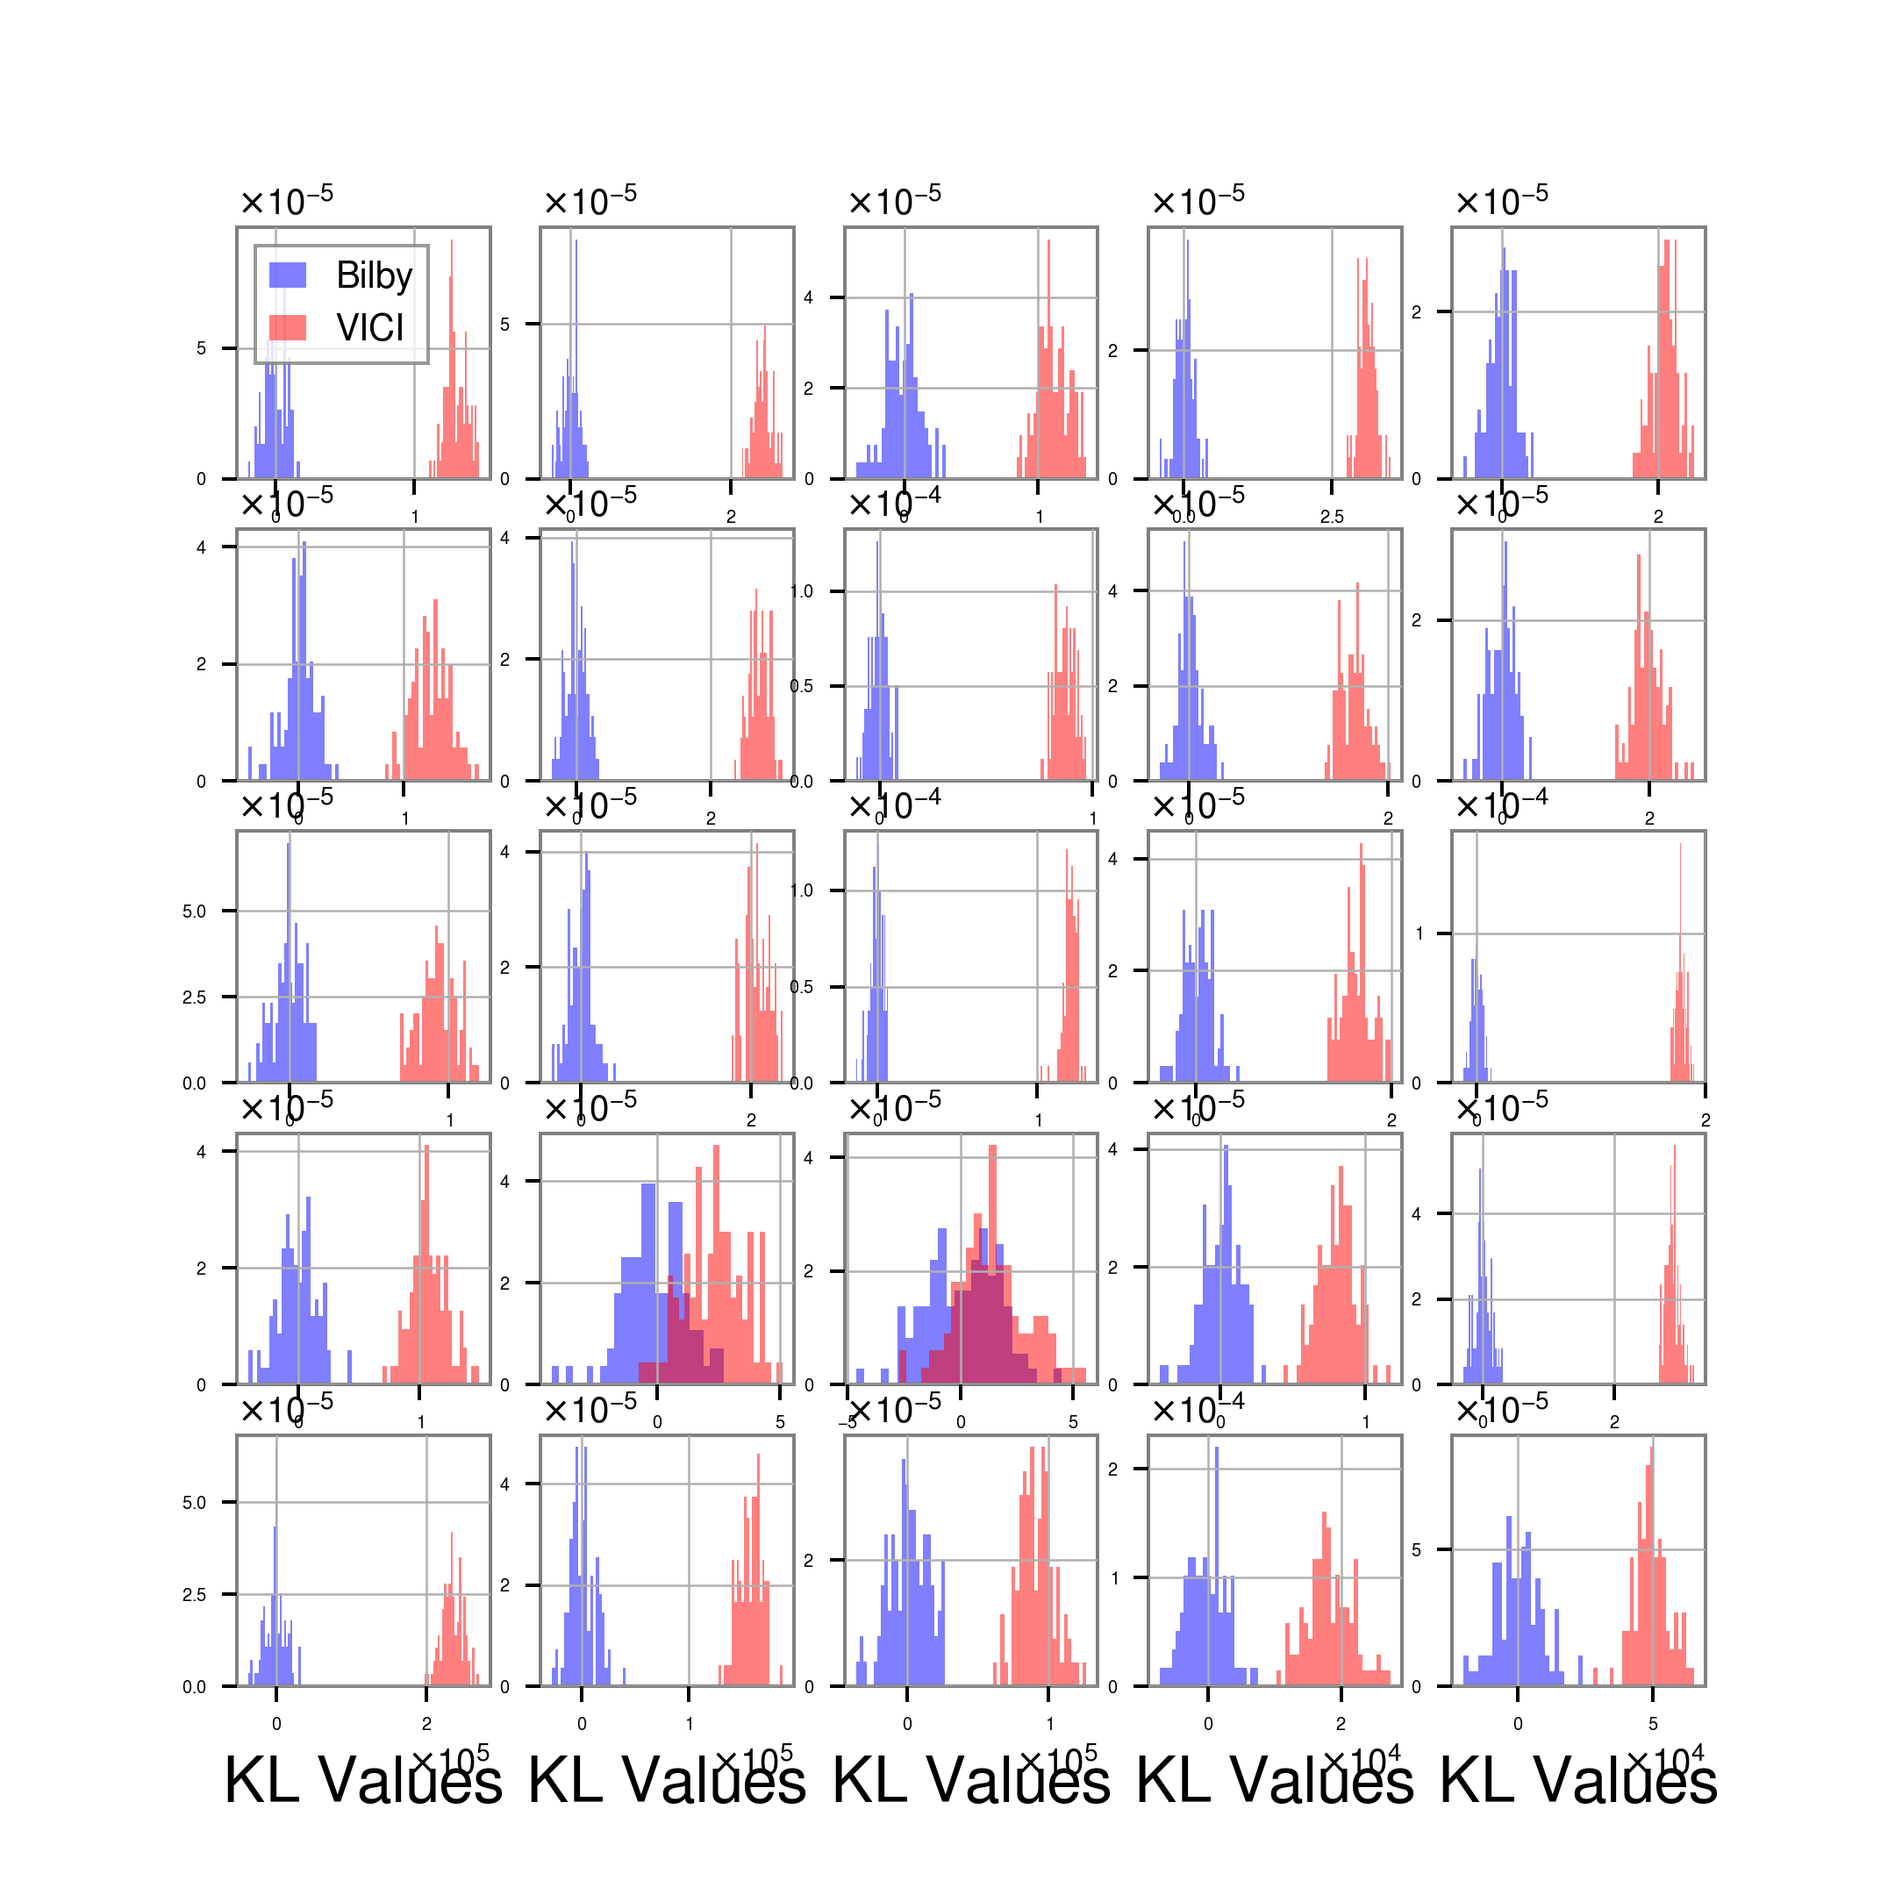
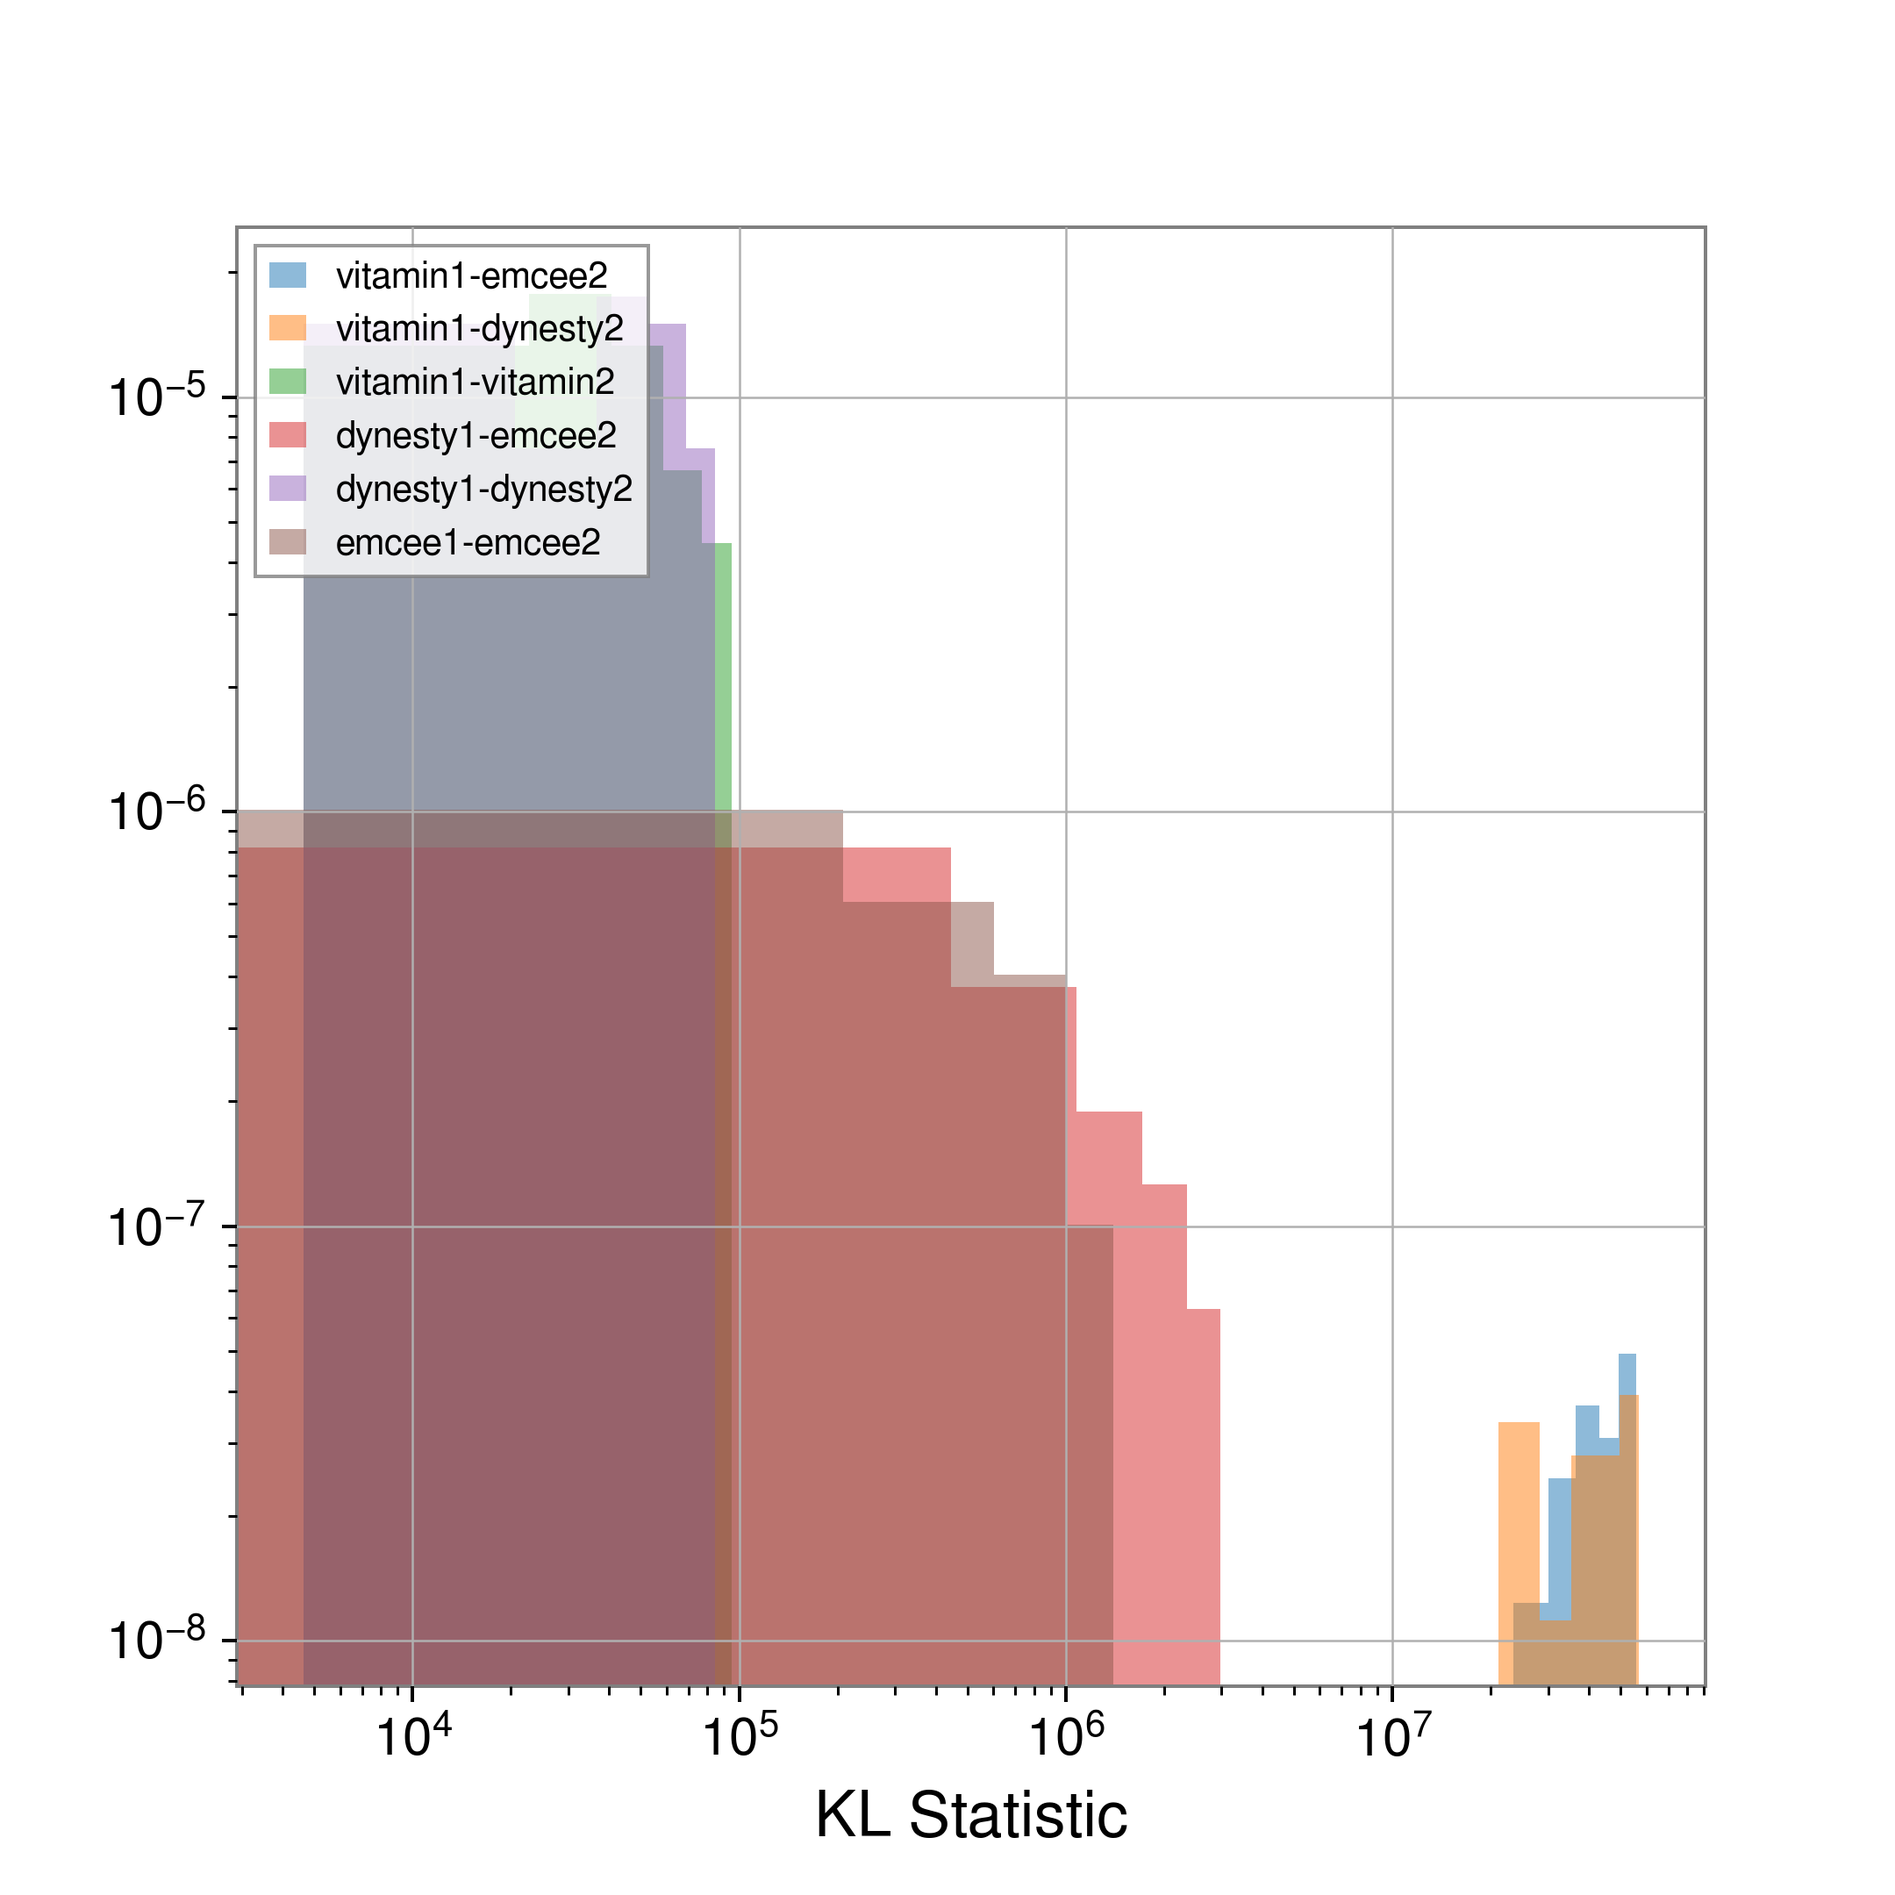
Improved on figures and added some text descriptions to figures

diff --git a/VItamin.tex b/VItamin.tex
@@ -511,10 +511,7 @@ We present results on $25$ \ac{GW} test waveforms using machine learning
 in order to asses the efficiency and quality of our machine learning approach 
 with the existing most optimal method for posterior sampling. We apply a prior on both component masses which ranges from $35 - 50$
 solar masses, a phase prior from $0 - 2\pi$, a distance prior from  $1\textrm{Gpc} - 3\textrm{Gpc}$, and a time of coalesence prior from
-from $-0.1$---$0.1$s. All time of coalescence test set
-parameters are fixed at $0.5$s
-within the $1$s time window~\chris{why do we do this? If we mention it then we
-need to motivate it}. The parameters we are not interested in estimating are all fixed (except for phase). we use waveforms that have a duration of 1 second, sampling frequency
+from $-0.1$---$0.1$s. The parameters we are not interested in estimating are all fixed (except for phase). we use waveforms that have a duration of 1 second, sampling frequency
 of 256Hz, fixed sky position (right ascension ($\alpha$), declination ($\delta$)), inclination angle ($\theta_j$), polarization angle ($\psi$) and a spin of zero. We allow 5 parameters to vary: component masses $m_1$ and $m_2$, luminosity
 distance, time of coalescence and phase, where phase is marginalized
 out. It should be noted that nuisance parameters can (if desired) be 
@@ -538,67 +535,53 @@ generated $\sim5000$ posterior samples per parameter, per \ac{GW} signal
 % K-L divergence results
 %
 \begin{figure}
-    \includegraphics[width=\columnwidth]{images/hist-kl_0.png}
-    \caption{\label{fig:kl_results} Histograms of 25 different test GW signal
-\ac{KL} divergence values.  Red denotes predictions from the CVAE and blue denotes
-predictions from \texttt{Bilby}.~\chris{OK, practical plotting comments first.
-We can't have 5x5 results shown here. You need to fix the font sizes and
-probably use a log scale on the y-axis. The bins sizes are too small in most
-histograms (try to use 100 bins across the complete range in each plot). Only
-use one central x-axis label (not one for every plot). Also add a central
-y-axis label stating $p(\text{KL})$. For the caption you need to provide more
-details of what is being shown. You don't get multiple KL values for a given
-pair of posteriors so how did you generate this? Now, in general - what to do
-about showing the KL values? Here's what I suggest. I think we need to do $N$
-test sets where $N>25$ but 25 will suffice for now. For each of these cases you
-need to run Bilby with all the different samplers and each sampler run twice.
-Then you can make a single plot showing the histogram (made from $N$
-realisations) of KL values. You would have a histogram from each sampler vs
-every other sampler (so 3 samplers plus VItamin makes 4 which results in 10
-histograms). When  you do one sampler against itself you use the 2nd run. There
-would be no bootstrapping. What do you think?}}
+    \includegraphics[width=\columnwidth]{images/hist-kl.png}
+    \caption{\label{fig:kl_results} We plot the KL divergence values 
+    of three independent samplers against each other over the same 25 \ac{GW} 
+    test waveforms. Divergence are computing by comparing posterior 
+    distributions between independent sampler posteriors. The posterior 
+    is computed for each of the 25 \ac{GW} waveforms using every sampler 
+    twice. A multi-dimensional KL divergence is then computed 
+    between all samplers 
+    with every other sampler (including themselves) over all 25 \ac{GW} 
+    test cases. The resulting KL divergence values are 
+    then plotted as overlapping histograms 
+    above, with each color demonstrating a different sampler combination. 
+    Both the y and x axis are log scaled for readability.}
 \end{figure}
 %
-In Fig. \ref{fig:kl_results} we show histograms of \ac{KL} divergence values on $25$
-test GW samples. The \ac{KL} divergence is computed $100$ times per test sample
-through the initialization of random splits. We compute the KL divergence on
-\ac{CVAE} results (red) by comparing \ac{CVAE} predictions to \texttt{Bilby}
-predictions. Our benchmark \texttt{Bilby} (blue) results are computed by
-choosing random $50/50$ splits between results from the same \texttt{Bilby}
-produced posterior.~\chris{I think this text will need to change based on
-changing the KL plot (see caption comments). In general though, looking at the
-results themselves it's clear that we're not too far away from overlapping
-distributions in most cases. I guess it depends on how much we push. Is there
-any correlation between the 2 obviously overlapping test cases and their signal
-properties?}
+In Fig. \ref{fig:kl_results} we show histograms of \ac{KL} divergence values 
+using $25$ test GW samples and three independent samplers (\ac{CVAE}, 
+\texttt{dynesty}, \texttt{emcee}). Each independent sampler is run twice 
+on the same test set to produce a set of posteriors. We compute the KL divergence of each sampler with itself and all other samplers over 25 
+\ac{GW} test samples. Results are binned in a histogram with each color 
+denoting sampler combinations.
 
 %
 % AD results
 %
-\begin{figure}
-    \includegraphics[width=\columnwidth]{images/hist-ad_0.png}
-    \caption{\label{fig:ad_results} Histograms of 25 different test GW signal
-Anderson-Darling (AD) statistic component mass 1 values. Distributions which
-are similar will have AD values which are close to 0.  Red denotes predictions
-from the \ac{CVAE} and blue denotes predictions from
-\texttt{Bilby}.~\chris{Please see the suggested changes in
-Fig.~\ref{fig:kl_results} and apply the same here. Results wise this doesn't
-look too bad and a bit more tuning might get everything to overlap in a nicer
-looking way. Also, the x-axis label is wrong.}}
-\end{figure}
+%\begin{figure}
+%    \includegraphics[width=\columnwidth]{images/hist-ad_0.png}
+%    \caption{\label{fig:ad_results} Histograms of 25 different test GW signal
+%Anderson-Darling (AD) statistic component mass 1 values. Distributions which
+%are similar will have AD values which are close to 0.  Red denotes predictions
+%from the \ac{CVAE} and blue denotes predictions from
+%\texttt{Bilby}.~\chris{Please see the suggested changes in
+%Fig.~\ref{fig:kl_results} and apply the same here. Results wise this doesn't
+%look too bad and a bit more tuning might get everything to overlap in a nicer
+%looking way. Also, the x-axis label is wrong.}}
+%\end{figure}
 %
-In Fig.~\ref{fig:ad_results} we show histograms of \ac{AD} statistic results
-computed over $100$ iterations per test sample.  The \ac{AD} statistic is a
-1-dimensional figure of merit, so Fig.~\ref{fig:ad_results} only illustrate
-results from predictions on $m_1$.~\chris{but why only $m_{1}$? If there is a
-reson then state it.} The closer \ac{AD} statistic values are to zero, the more
-likely that the two distributions being compared are drawn from the same
-distribution~\chris{2 distributions can't be drawn from the same distribution.
-Check your language.}. As can be seen in Fig.~\ref{fig:ad_results} there is
-some overlap between the machine learning predictions and our benchmark
-\texttt{Bilby} results.~\chris{hopefully if/when we improve the results the AD,
-KL, and KS statsistics will all be reasonably overlapping and we can say a bit
-more about it.}
+%In Fig.~\ref{fig:ad_results} we show histograms of \ac{AD} statistic results
+%computed over $100$ iterations per test sample.  The \ac{AD} statistic is a
+%1-dimensional figure of merit, so Fig.~\ref{fig:ad_results} only illustrate
+%results from predictions on $m_1$ here as an example, but provide results from other parameters in the methods section.~\hunter{attach other plots.} The closer \ac{AD} statistic values are to zero, the more
+%likely that the two sets of samples being compared are drawn from the same
+%distribution. As can be seen in Fig.~\ref{fig:ad_results} there is
+%some overlap between the machine learning predictions and our benchmark
+%\texttt{Bilby} results.~\chris{hopefully if/when we improve the results the AD,
+%KL, and KS statsistics will all be reasonably overlapping and we can say a bit
+%more about it.}
 
 %
 % P-P plot
@@ -621,53 +604,39 @@ symmetry between the axes.}}
 %
 In order to show that our results are consistent with the truth, we have
 additionally plotted probability-probability (p-p) plots in
-Fig.~\ref{fig:pp_plot}. On the y axis is plotted the predicted cummulative
-distribution and on the x axis is plotted the theorectical distribution.
-Perfect alignment with the truth~\chris{No, a diagonal p-p plot is only
-possible with infinite data but consistent with diagonal is indicative that the
-Bayesian probability distributions are consistent with the frequentist
-interpretation - that the truth will lie inside the $X\%$ probability contour
-with a frequency of $X\%$ of the time.} is illustrated by the black dashed
-diagonal line, while our empirical alignment is shown in the blue
-line.~\chris{as mentioned in the figure caption comments, please add p-p plot
+Fig.~\ref{fig:pp_plot}. On the y axis is plotted the predicted cumulative
+distribution and on the x axis is plotted the theoretical distribution.
+Predictions from the \ac{CVAE} consistent with the black dashed diagonal 
+line is indicative that the Bayesian probability distributions are 
+consistent with the frequentest interpretation - that the truth will 
+lie inside the $X\%$ probability contour with a frequency of $X\%$ of the time.  We plot empirical results as those represented in the blue line.~\chris{as mentioned in the figure caption comments, please add p-p plot
 curves for the other samplers run on the same test data.} 
 
 %
 % 1-D overlap results
 %
 \begin{figure}
-    \includegraphics[width=\columnwidth]{images/latest-1d_0.png}
+    \includegraphics[width=\columnwidth]{images/corner_testcase0.png}
     \caption{\label{fig:1D_overlap} Histograms of 25 different test GW signal
 component mass 1 values.  Numbers in the upper right-hand corner denote overlap
 values where 1 means $\sim{100}\%$ overlap and 0 means $\sim{0}\%$
-overlap.~\chris{we shouldn't use overlaps unless we define how they're
-calculated in the text. I think that overlaps are not something we need at this
-point. Don't remove them yet since they are still useful to us but they should
-be removed from the final plots.} Red denotes predictions from CVAE predictions
-and blue denotes predictions from \texttt{Bilby}.~\chris{the 1 and 2D posterior
-plots should be represented as a corner plot for a single test data realisation
-- this plot should span 2 columns - it is our primary plot. Also the way in
-which the bilby and VItamin samples are overlayed needs to be changed. Now that
-the overlap is so good we need to be able to see how good it really is. Can I
-ask that the bilby results be represented as contours (68,90,95\%) and the
-VItamin results be shown as samples OR also as contours. If both are contours
-then the VItamin contours should be filled and the bilby contours should just
-be lines (VItamin in blue and bilby in red I think). Whatever colours are used
-then they should be consistent throughout the paper.}}
+overlap. Red denotes predictions from CVAE predictions
+and blue denotes predictions from \texttt{Bilby}. \hunter{Need to rewrite 
+this figure description.}}
 \end{figure}
 %
 % 2D scatter plot
 %
-\begin{figure}
-    \includegraphics[width=\columnwidth]{images/posteriors_13.png}
-\caption{\label{fig:lum_dist-t0_scatter} This figure illustrates 25 different
-test GW samples with $5000$ posterior samples from both \texttt{Bilby} and our
-CVAE plotted. Red denotes predictions from the CVAE and blue denotes
-predictions from \texttt{Bilby}. Luminosity distance is plotted as a function
-of time of coalescence with 4-dimensional overlap values printed in the upper
-right-hand portion of each subplot.\chris{see Fig.~\ref{fig:1D_overlap} caption
-for comments}}
-\end{figure}
+%\begin{figure}
+%    \includegraphics[width=\columnwidth]{images/posteriors_13.png}
+%\caption{\label{fig:lum_dist-t0_scatter} This figure illustrates 25 different
+%test GW samples with $5000$ posterior samples from both \texttt{Bilby} and our
+%CVAE plotted. Red denotes predictions from the CVAE and blue denotes
+%predictions from \texttt{Bilby}. Luminosity distance is plotted as a function
+%of time of coalescence with 4-dimensional overlap values printed in the upper
+%right-hand portion of each subplot.\chris{see Fig.~\ref{fig:1D_overlap} caption
+%for comments}}
+%\end{figure}
 %
 We can further illustrate the accuracy of our machine learning predictions by
 directly plotting the samples generated by our CVAE and \texttt{Bilby}
